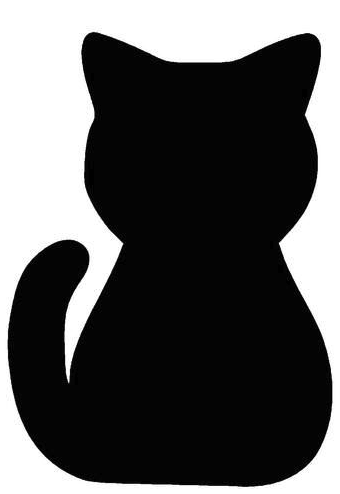
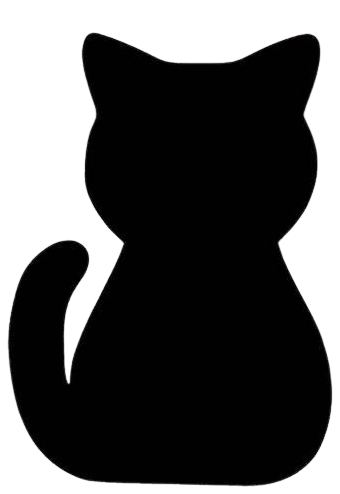
added image background

diff --git a/src/App.js b/src/App.js
@@ -135,7 +135,7 @@ function App() {
 
   return (
       <div className="App">
-          <div style={{float: 'left', margin: '10px', fontWeight: 900}}><img alt='.' src={'./black-cat.png'} width={'20px'} height={'20px'}/>&nbsp;My Social Archivr</div>
+          <div style={{float: 'left', margin: '10px', fontWeight: 900, color: 'black'}}><img alt='.' src={'./black-cat.png'} width={'20px'} height={'20px'}/>&nbsp;My Social Archivr</div>
           <hr width="98%" color="green" size="1px"/>
           <div className="parent">
               <header style={{border: 0}}>
@@ -143,10 +143,11 @@ function App() {
                       alignContent: 'space-evenly',
                       border: '0px',
                       textAlign: 'left',
-                      marginLeft: '0px',
+                      marginLeft: '20px',
                       marginTop: '3px',
                       height: '60px',
-                      fontWeight: 900
+                      fontWeight: 900,
+                      color: 'black'
                   }}>
                       <div style={{fontSize: 50, display: 'inline-block', marginTop: '2px', fontFamily: 'Snell Roundhand'}}>{viewHashtag}</div>
                       <div style={{height: '100px', display: 'inline-block', textAlign: 'center', marginLeft: '20px', fontSize: '12px'}}>
@@ -175,7 +176,7 @@ function App() {
                       contentLabel="About My Social Archivr"
                   >
                       <div style={{fontWeight: 900, fontSize:'20px', textAlign: 'center', marginBottom: '20px'}}><img alt='.' src={'./black-cat.png'} width={'20px'} height={'20px'}/>&nbsp;My Social Archivr</div>
-                      <div>A viewer for archived Social Media</div>
+                      <div>A Gallery for archived Social Media</div>
                       <div style={{textAlign: 'center', marginTop: '5px'}}>© Bronze Giant LLC 2024</div>
                       <div style={{marginTop: '30px', display: 'flex', alignItems:'center', justifyContent: 'center'}}><button onClick={closeModal}>Close</button></div>
                   </Modal>

diff --git a/src/App.css b/src/App.css
@@ -17,7 +17,6 @@
 }
 
 .App-header {
-  background-color: #282c34;
   min-height: 100vh;
   display: flex;
   flex-direction: column;
@@ -63,7 +62,6 @@ header {
 
 .left-sidebar {
   grid-column: 1 / 2;
-  background-color: white;
 }
 
 main {
@@ -74,13 +72,12 @@ main {
 
 .right-sidebar {
   grid-column: 3 / 4;
-  background-color: white;
 }
 
 footer {
   grid-column: 1 / 4;
-  background-color: darkgreen;
-  color: white;
+  background-color: white;
+  color: black;
   font-size: 12px;
 }
 

diff --git a/public/index.html b/public/index.html
@@ -26,7 +26,10 @@
     -->
     <title>My Social Archivr</title>
   </head>
-  <body>
+  <body style="background-image: url('./dmytro.jpg');
+                background-color: rgba(255,255,255,0.8);
+                background-size:     cover;
+                background-blend-mode: lighten">
     <noscript>You need to enable JavaScript to run this app.</noscript>
     <div id="root"></div>
     <!--
